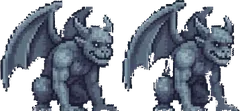
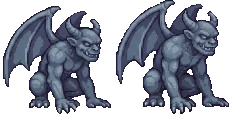
New animation frames (Gemini, 23 Nov) + remove smoothness stopgaps
- Mage: new idle + blink (blink every 3-4 s, breathing bob kept), new 4-frame walk with the staff
- Ranger: new 4-frame walk with the bow in every frame
- Gargoyle: new idle breathing pair; new walk frame 4 (colour-matched), full 5-frame loop
- Portrait Mimic: new 4-frame walk, driven by distance walked
- Pip: idle + wave every 4-6 s, and when the player walks up
- Bog Frog: new airborne frame 3 (sit, crouch, airborne)
- Lantern Moth: new wings-down frame 3, flap loop 1-2-3-2
- removed stopgaps: mage/ranger/gargoyle/mimic frame skipping, mimic
  waddle, frog stretch, gargoyle and Pip bob
- weapon points for the new mage and ranger frames
- frames keyed from magenta, pink fringe cleaned, downscaled by median
  per pixel (no blending), scaled and foot-lined to the existing sprites

Claude-Session: https://claude.ai/code/session_01PSVUwje5bNDsz9LdeuYuHG

diff --git a/js/game.js b/js/game.js
@@ -110,10 +110,14 @@ let LOADING=0;function needMap(i,fn){const gs=mapGroups(i);if(gs.every(gReady)){
  const wp=paused;paused=true;loadWithBar(gs,'Loading '+MAPS[i].name+'…').then(()=>{LOADING=0;paused=wp;fn();prefetchFrom(i)})}
 function whiteOf(k){if(WIMG[k])return WIMG[k];const im=IMG[k],c=document.createElement('canvas');c.width=im.width;c.height=im.height;const g=c.getContext('2d');g.drawImage(im,0,0);g.globalCompositeOperation='source-in';g.fillStyle='#fff';g.fillRect(0,0,c.width,c.height);return WIMG[k]=c}
 /* animation smoothness: per-key frame sequences, code breathing, squash/stretch hook (XF) */
-const SEQ={knight_walk:{f:[1,2,3,4]},warden_walk:{f:[1,2,3,4]},ranger_walk:{f:[1,2]},mage_walk:{f:[1,2]},archer_walk:{f:[0,1]},boss_walk:{f:[0,1,2,4]},mimic_walk:{f:[0]},pet_moth:{f:[0,1]},
- shop:{f:[0],bob:1.5},npc_pets:{f:[0],bob:1.5},ranger_idle:{f:[0],bob:1.5},mage_idle:{f:[0],bob:1.5},boss_idle:{f:[0],bob:2},pet_grimoire:{f:[0],bob:3,per:2.2}};
+const SEQ={knight_walk:{f:[1,2,3,4]},warden_walk:{f:[1,2,3,4]},archer_walk:{f:[0,1]},pet_moth:{f:[0,1,2,1]},
+ shop:{f:[0],bob:1.5},ranger_idle:{f:[0],bob:1.5},pet_grimoire:{f:[0],bob:3,per:2.2},
+ /* ev: an extra frame shown now and then: every lo..hi seconds for dur seconds (mage blink, Pip's wave) */
+ mage_idle:{f:[0],bob:1.5,ev:{fr:1,lo:3,hi:4,dur:.16,seed:1}},npc_pets:{f:[0],ev:{fr:1,lo:4,hi:6,dur:1.3,seed:2,near:1}}};
+let PIPW=-9,PIPN=false;
+function sqEv(e){if(e.near&&T-PIPW<e.dur)return true;const P0=(e.lo+e.hi)/2,c=Math.floor(T/P0),r=Math.sin(c*12.9898+e.seed*78.233)*43758.5453,j=(r-Math.floor(r))*(e.hi-e.lo),u=T-c*P0;return u>=j&&u<j+e.dur}
 let XF=null,S0IN=0;const ATKD=.37;
-function sqI(k,i,n){const q=SEQ[k.split(/[#@]/)[0]];if(q){const L=q.f.length;return Math.min(n-1,q.f[((Math.floor(i)%L)+L)%L])}return ((Math.floor(i)%n)+n)%n}
+function sqI(k,i,n){const q=SEQ[k.split(/[#@]/)[0]];if(q){if(q.ev&&n>q.ev.fr&&sqEv(q.ev))return q.ev.fr;const L=q.f.length;return Math.min(n-1,q.f[((Math.floor(i)%L)+L)%L])}return ((Math.floor(i)%n)+n)%n}
 function sqB(k){const q=SEQ[k.split(/[#@]/)[0]];return q&&q.bob?Math.round(q.bob*(.5-.5*Math.cos(T*6.2832/(q.per||1.6)))):0}
 function fr(k,i,x,y,s,flip,white){const m=MAN[k],im=IMG[k];if(!im||!m.n)return false;s/=m.ds||1;i=sqI(k,i,m.n);ctx.save();ctx.translate(Math.round(x),Math.round(y)-sqB(k)+(XF&&XF.dy||0));if(flip)ctx.scale(-1,1);if(XF){if(XF.r)ctx.rotate(XF.r);if(XF.sx||XF.sy)ctx.scale(XF.sx||1,XF.sy||1)}
  ctx.drawImage(white?whiteOf(k):im,i*m.fw,0,m.fw,m.fh,-m.ax*s,-m.ay*s,m.fw*s,m.fh*s);ctx.restore();return true}
@@ -583,7 +587,7 @@ $('bEquip').onclick=()=>{if(state==='play'&&!DQ)openEquip()};$('bEq2').onclick=(
 /* ---------- weapon upgrade glow (pixelfx: enhance-sword / -bow / -staff, drawn live) ----------
    WPTS: hand-marked weapon points per outfit x animation x frame, in the strip's frame pixels.
    sword/bow [ax,ay, mx,my, bx,by, halfWidth] (guard, blade middle, tip | top tip, grip, bottom tip); staff [gripX,gripY, headX,headY]; null = no weapon drawn. */
-const WPTS={"blade_idle":[[70,82,83,60,97,34,2],[69,83,83,61,98,36,2]],"blade_walk":[[22,101,55,117,88,125,2],null,null,null,null],"blade_jump":[[124,66,153,57,183,47,2]],"blade_attack":[[104,84,128,72,152,58,2],[133,61,160,50,188,37,2],null],"blade_hurt":[null],"fresh_idle":[[68,78,87,59,106,41,2.5],[68,79,87,60,106,42,2.5]],"fresh_walk":[[22,95,50,104,78,113,2.5],null,null,null,null],"fresh_jump":[[103,50,124,32,145,14,2.5]],"fresh_attack":[[103,82,128,68,152,55,2.5],[124,60,152,46,180,32,2.5],null],"fresh_hurt":[null],"knight_idle":[[80,82,101,59,122,37,3],[80,82,101,60,122,38,3]],"knight_walk":[[28,104,60,116,92,128,3],null,null,null,null],"knight_jump":[[110,62,138,50,166,38,3]],"knight_attack":[[108,82,134,67,160,52,3],[142,60,166,46,190,32,3],null],"knight_hurt":[null],"warden_idle":[[102,104,137,123,171,142,4],[102,104,137,123,171,142,4]],"warden_walk":[[116,96,150,117,186,138,4],[105,100,140,118,175,135,4],[108,102,146,120,185,139,4],[103,103,145,120,186,137,4],[102,100,145,118,187,135,4]],"warden_jump":[[76,36,40,19,4,3,4]],"warden_attack":[[165,34,124,18,83,3,4],[133,62,94,38,54,12,4],[176,138,222,155,268,172,4]],"warden_hurt":[[92,40,48,32,4,28,4]],"archer_idle":[[96,34,84,70,60,90,1.5],[96,35,84,70,60,90,1.5]],"archer_walk":[[98,34,87,70,62,90,1.5],[106,33,88,70,63,89,1.5],[99,34,87,72,63,89,1.5],[110,33,96,72,73,90,1.5]],"archer_jump":[[105,33,90,72,66,92,1.5]],"archer_attack":[[80,7,107,74,80,122,1.5],[80,7,104,70,79,120,1.5],[79,4,107,74,90,124,1.5]],"archer_hurt":[[98,37,80,82,58,99,1.5]],"ranger_idle":[[111,38,102,68,80,98,1.5],[94,54,88,82,76,108,1.5]],"ranger_walk":[[115,43,104,70,82,103,1.5],null,null],"ranger_jump":[[124,33,110,74,80,108,1.5]],"ranger_attack":[[83,4,108,62,85,116,1.5],null,null],"ranger_hurt":[[62,6,76,44,70,85,1.5]],"laureate_idle":[[127,20,108,58,97,92,1.5],[127,20,108,58,97,92,1.5]],"laureate_walk":[null,null,null,null,null],"laureate_jump":[null],"laureate_attack":[[146,10,172,70,150,138,1.5],[150,10,181,80,153,158,1.5],[154,26,181,88,153,175,1.5]],"laureate_hurt":[[124,7,154,87,126,162,1.5]],"mage_idle":[[92,90,104,52],[98,90,107,50]],"mage_walk":[[99,87,117,44],null,null],"mage_jump":[[87,72,105,31]],"mage_attack":[null,null,null],"mage_hurt":[[88,38,72,6]],"prof_idle":[[88,104,98,70],[90,105,100,70]],"prof_walk":[[100,72,110,48],[99,72,109,48],[100,73,110,49],[101,71,111,47],[101,71,111,47]],"prof_jump":[[104,63,123,39]],"prof_attack":[[123,77,141,45],[108,86,146,83],[126,88,157,87]],"prof_hurt":[[97,66,101,39]],"scholar_idle":[[97,92,109,52],[94,92,105,52]],"scholar_walk":[[116,95,127,56],[113,95,128,59],[117,95,129,56],[114,95,127,55]],"scholar_jump":[[123,73,136,50]],"scholar_attack":[[117,67,135,36],[115,83,163,79],[120,81,157,79]],"scholar_hurt":[[97,50,80,14]]};
+const WPTS={"blade_idle":[[70,82,83,60,97,34,2],[69,83,83,61,98,36,2]],"blade_walk":[[22,101,55,117,88,125,2],null,null,null,null],"blade_jump":[[124,66,153,57,183,47,2]],"blade_attack":[[104,84,128,72,152,58,2],[133,61,160,50,188,37,2],null],"blade_hurt":[null],"fresh_idle":[[68,78,87,59,106,41,2.5],[68,79,87,60,106,42,2.5]],"fresh_walk":[[22,95,50,104,78,113,2.5],null,null,null,null],"fresh_jump":[[103,50,124,32,145,14,2.5]],"fresh_attack":[[103,82,128,68,152,55,2.5],[124,60,152,46,180,32,2.5],null],"fresh_hurt":[null],"knight_idle":[[80,82,101,59,122,37,3],[80,82,101,60,122,38,3]],"knight_walk":[[28,104,60,116,92,128,3],null,null,null,null],"knight_jump":[[110,62,138,50,166,38,3]],"knight_attack":[[108,82,134,67,160,52,3],[142,60,166,46,190,32,3],null],"knight_hurt":[null],"warden_idle":[[102,104,137,123,171,142,4],[102,104,137,123,171,142,4]],"warden_walk":[[116,96,150,117,186,138,4],[105,100,140,118,175,135,4],[108,102,146,120,185,139,4],[103,103,145,120,186,137,4],[102,100,145,118,187,135,4]],"warden_jump":[[76,36,40,19,4,3,4]],"warden_attack":[[165,34,124,18,83,3,4],[133,62,94,38,54,12,4],[176,138,222,155,268,172,4]],"warden_hurt":[[92,40,48,32,4,28,4]],"archer_idle":[[96,34,84,70,60,90,1.5],[96,35,84,70,60,90,1.5]],"archer_walk":[[98,34,87,70,62,90,1.5],[106,33,88,70,63,89,1.5],[99,34,87,72,63,89,1.5],[110,33,96,72,73,90,1.5]],"archer_jump":[[105,33,90,72,66,92,1.5]],"archer_attack":[[80,7,107,74,80,122,1.5],[80,7,104,70,79,120,1.5],[79,4,107,74,90,124,1.5]],"archer_hurt":[[98,37,80,82,58,99,1.5]],"ranger_idle":[[111,38,102,68,80,98,1.5],[94,54,88,82,76,108,1.5]],"ranger_walk":[[115,33,106,62,83,85,1.5],[117,33,107,60,82,83,1.5],[117,42,107,67,82,88,1.5],[118,35,108,63,83,86,1.5]],"ranger_jump":[[124,33,110,74,80,108,1.5]],"ranger_attack":[[83,4,108,62,85,116,1.5],null,null],"ranger_hurt":[[62,6,76,44,70,85,1.5]],"laureate_idle":[[127,20,108,58,97,92,1.5],[127,20,108,58,97,92,1.5]],"laureate_walk":[null,null,null,null,null],"laureate_jump":[null],"laureate_attack":[[146,10,172,70,150,138,1.5],[150,10,181,80,153,158,1.5],[154,26,181,88,153,175,1.5]],"laureate_hurt":[[124,7,154,87,126,162,1.5]],"mage_idle":[[91,89,107,52],[90,91,108,54]],"mage_walk":[[87,91,104,50],[85,89,98,52],[85,89,98,50],[85,89,99,50]],"mage_jump":[[87,72,105,31]],"mage_attack":[null,null,null],"mage_hurt":[[88,38,72,6]],"prof_idle":[[88,104,98,70],[90,105,100,70]],"prof_walk":[[100,72,110,48],[99,72,109,48],[100,73,110,49],[101,71,111,47],[101,71,111,47]],"prof_jump":[[104,63,123,39]],"prof_attack":[[123,77,141,45],[108,86,146,83],[126,88,157,87]],"prof_hurt":[[97,66,101,39]],"scholar_idle":[[97,92,109,52],[94,92,105,52]],"scholar_walk":[[116,95,127,56],[113,95,128,59],[117,95,129,56],[114,95,127,55]],"scholar_jump":[[123,73,136,50]],"scholar_attack":[[117,67,135,36],[115,83,163,79],[120,81,157,79]],"scholar_hurt":[[97,50,80,14]]};
 const WKIND={blade:'sword',fresh:'sword',knight:'sword',warden:'sword',archer:'bow',ranger:'bow',laureate:'bow',mage:'staff',prof:'staff',scholar:'staff'};
 const wLv=up=>up>=7?3:up>=4?2:up>=1?1:0;
 function tierRamp(t){const c=TIERC[t]||TIERC[1],v=parseInt(c.slice(1),16),r=v>>16&255,g=v>>8&255,b=v&255,h=(x,y,z)=>'#'+[x,y,z].map(n=>Math.round(Math.max(0,Math.min(255,n))).toString(16).padStart(2,'0')).join(''),
@@ -1038,7 +1042,7 @@ function drawObjects(){if(!artReady)return;ctx.textAlign='center';ctx.font='600 
  const lab=(t,x,y,hi)=>{if(x<-60||x>W+60)return;ctx.fillStyle=hi?'#f2c14e':'#1b1633cc';const w=ctx.measureText(t).width+14;x=clamp(x,w/2+4,W-w/2-4);ctx.fillRect(x-w/2,y-16,w,22);ctx.fillStyle=hi?'#1b1633':'#f6ecd2';ctx.fillText(t,x,y)};
  for(const o of MAPS[MAP].obj){const sx=o.x-cam;if(sx<-160||sx>W+160)continue;const gate=o.k==='warp'||o.k==='exit';
   if(o.k==='frame'){if(RA('vframe')){fr('vframe',0,sx,FLOOR-195,.8);continue}ctx.save();ctx.fillStyle='#1a1030';ctx.fillRect(sx-44,FLOOR-250,88,110);ctx.strokeStyle='#c9a060';ctx.lineWidth=6;ctx.strokeRect(sx-44,FLOOR-250,88,110);ctx.fillStyle='#8a4ad633';ctx.fillRect(sx-38,FLOOR-244,76,98);ctx.restore();continue}
-  if(o.stair&&RA('stair_open'))fr(o.key&&!(P.lv>=(o.lv||0)&&P.mkey)?'stair_locked':'stair_open',0,sx,FLOOR+4,.66);else if(gate||o.k==='texit')drawWarp(sx);else if(o.art){if(o.ghost){ctx.save();ctx.globalAlpha=.72+.1*Math.sin(T*2)}fr(o.art,o.nf?o.f0+Math.floor(T*o.fps)%o.nf:Math.floor(T*(o.fps||0)),sx,FLOOR+(o.dy||2)-(o.ghost?12+6*Math.sin(T*1.6):0),o.s);if(o.ghost)ctx.restore()}
+  if(o.stair&&RA('stair_open'))fr(o.key&&!(P.lv>=(o.lv||0)&&P.mkey)?'stair_locked':'stair_open',0,sx,FLOOR+4,.66);else if(gate||o.k==='texit')drawWarp(sx);else if(o.art){if(o.k==='pets'){const nr=Math.abs(P.x-o.x)<170;if(nr&&!PIPN)PIPW=T;PIPN=nr}if(o.ghost){ctx.save();ctx.globalAlpha=.72+.1*Math.sin(T*2)}fr(o.art,o.nf?o.f0+Math.floor(T*o.fps)%o.nf:Math.floor(T*(o.fps||0)),sx,FLOOR+(o.dy||2)-(o.ghost?12+6*Math.sin(T*1.6):0),o.s);if(o.ghost)ctx.restore()}
   const ly=FLOOR+(o.ly||(gate||o.k==='texit'?-200:-104));if(o.label)lab(o.label,sx,ly);if(nearObj===o)lab(TOUCH?'Tap Talk':(gate?'Press F to travel':'Press F to talk'),sx,ly-28,1)}}
 function drawPlatOld(){for(const p of PLAT){const x0=Math.max(p.x,cam-10),x1=Math.min(p.x+p.w,cam+W+10);if(x1<=x0)continue;
   for(let zi=0;zi<ZONES.length;zi++){const z=ZONES[zi];const a=Math.max(x0,z.x0),b=Math.min(x1,z.x1);if(b<=a)continue;
@@ -1046,9 +1050,9 @@ function drawPlatOld(){for(const p of PLAT){const x0=Math.max(p.x,cam-10),x1=Mat
 function bar(x,y,w,h,v,col,bg){ctx.fillStyle=bg||'#1b1633';ctx.fillRect(x,y,w,h);ctx.fillStyle=col;ctx.fillRect(x+2,y+2,(w-4)*clamp(v,0,1),h-4)}
 const MSC={slime:.42,worm:.48,bat:.42,golem:.52,boss:.8};
 function mobKey(m){const sk=MT[m.type].skin||m.type;switch(m.ai){
-  case 'slime':{if(m.type==='frog')return [sk,!m.onG||m.tm<.25?1:0];if(m.type!=='slime')return [sk,!m.onG?2:m.tm<.25?1:0];const k=m.v?'slime_p':'slime_g';return [k,!m.onG?(m.v?1:2):m.tm<.25?(m.v?2:1):0]}
+  case 'slime':{if(m.type==='frog')return [sk,!m.onG?2:m.tm<.25?1:0];if(m.type!=='slime')return [sk,!m.onG?2:m.tm<.25?1:0];const k=m.v?'slime_p':'slime_g';return [k,!m.onG?(m.v?1:2):m.tm<.25?(m.v?2:1):0]}
  case 'worm':return ['worm',m.anim*5];case 'bat':return m.dive>0&&IMG[sk+'_dive']?[sk+'_dive',0]:[sk,m.anim*9];
-  case 'mimic':return [sk+(m.st==='disguise'&&RA(sk+'_disg')?'_disg':m.st==='lunge'?'_slam':m.st==='reveal'?'_wind':'_walk'),m.st==='walk'||m.st==='idle'?m.anim*4:0];
+  case 'mimic':return [sk+(m.st==='disguise'&&RA(sk+'_disg')?'_disg':m.st==='lunge'?'_slam':m.st==='reveal'?'_wind':'_walk'),m.st==='walk'?m.wd/11:0];
   case 'mirror':{const c=m.sk;return m.atkA>0?[c+'_attack',(1-m.atkA/.3)*3]:Math.abs(m.vx)>1?[c+'_walk',m.wd/26]:[c+'_idle',m.anim*2.2]}
   case 'golem':return m.st==='wind'?[sk+'_wind',0]:m.slamT>0?[sk+'_slam',0]:[sk+'_walk',Math.abs(m.vx)>1?m.wd/12:0];
   default:return m.castT>0&&IMG[sk+'_cast']?[sk+'_cast',0]:m.hurtT>0?[sk+'_hurt',0]:m.st==='wind'||m.st==='prep'?[sk+'_wind',0]:m.st==='leap'&&!m.onG?[sk+'_leap',0]:m.slamT>0?[sk+'_slam',0]:Math.abs(m.vx)>1?[sk+'_walk',m.wd/12]:[sk+'_idle',m.anim*2]}}
@@ -1070,7 +1074,7 @@ function drawMob(m){
   ctx.fillStyle='#0003';ctx.beginPath();ctx.ellipse(sx,m.fly?FLOOR:sy,m.w/2,4,0,0,7);ctx.fill();
   const jx=m.st==='wind'||m.st==='prep'?Math.sin(T*60)*2:0,ek=m.elite?eliteKey(k,m.elite):k,es=(m.ai==='mirror'?.5:m.elite?sc*1.15:sc)*(m.mini?.62:1)*(m.kid?.75:1),ek2=m.ai==='mirror'?eliteKey(k,'shadow'):ek;
    if(!RA('mimic_disg')&&(m.st==='disguise'||m.st==='reveal')){ctx.save();ctx.fillStyle='#1a1030';ctx.fillRect(sx-40,sy-m.h-30,80,m.h+30);ctx.strokeStyle='#c9a060';ctx.lineWidth=6;ctx.strokeRect(sx-40,sy-m.h-30,80,m.h+30);ctx.restore()}
-   const ph=MT[m.type].phase&&!(m.dive>0)&&(m.dcd||9)>.6;if(ph)ctx.globalAlpha=.35;if(m.elite==='shiny'){ctx.save();ctx.globalAlpha=.35+.2*Math.sin(T*6);ctx.fillStyle='#ffe680';ctx.beginPath();ctx.ellipse(sx,sy-m.h/2,m.w*.9,m.h*.75,0,0,7);ctx.fill();ctx.restore();if(Math.random()<.15)fx.push({k:'p',x:m.x+rnd(-20,20),y:m.y-rnd(0,m.h),vx:0,vy:-40,life:.6,max:.6,c:'#fff6b0',s:3})}XF=m.type==='frog'&&!m.onG?{sx:.92,sy:1.1}:k==='mimic_walk'&&Math.abs(m.vx)>1?{r:Math.sin(m.wd/9)*.06,dy:-Math.round(Math.abs(Math.sin(m.wd/9))*2)}:null;fr(ek2,i,sx+jx,sy+(m.fly?0:2),es,fl);ctx.globalAlpha=1;if(m.st==='reveal'&&!RA('mimic_disg')){ctx.fillStyle='#ff3030';ctx.fillRect(sx-14,sy-m.h*.78,8,6);ctx.fillRect(sx+6,sy-m.h*.78,8,6)}if(m.flash>0){ctx.globalAlpha=.7;fr(k,i,sx+jx,sy+(m.fly?0:2),es,fl,1);ctx.globalAlpha=1}
+   const ph=MT[m.type].phase&&!(m.dive>0)&&(m.dcd||9)>.6;if(ph)ctx.globalAlpha=.35;if(m.elite==='shiny'){ctx.save();ctx.globalAlpha=.35+.2*Math.sin(T*6);ctx.fillStyle='#ffe680';ctx.beginPath();ctx.ellipse(sx,sy-m.h/2,m.w*.9,m.h*.75,0,0,7);ctx.fill();ctx.restore();if(Math.random()<.15)fx.push({k:'p',x:m.x+rnd(-20,20),y:m.y-rnd(0,m.h),vx:0,vy:-40,life:.6,max:.6,c:'#fff6b0',s:3})}XF=null;fr(ek2,i,sx+jx,sy+(m.fly?0:2),es,fl);ctx.globalAlpha=1;if(m.st==='reveal'&&!RA('mimic_disg')){ctx.fillStyle='#ff3030';ctx.fillRect(sx-14,sy-m.h*.78,8,6);ctx.fillRect(sx+6,sy-m.h*.78,8,6)}if(m.flash>0){ctx.globalAlpha=.7;fr(k,i,sx+jx,sy+(m.fly?0:2),es,fl,1);ctx.globalAlpha=1}
   XF=null;drawMobUi(m,sx,sy);return}
  const set=MS[m.type][m.v]||MS[m.type][0];let img=set[0];if(m.type==='bat')img=set[Math.floor(m.anim*8)%2];
  const sx=m.x-cam,sy=m.y;let bob=m.type==='slime'&&m.onG?Math.sin(m.anim*6)*1.5:0;

diff --git a/index.html b/index.html
@@ -196,7 +196,7 @@ img.ico,img.tico,#bagList img,#toast img{object-fit:contain;image-rendering:pixe
 <div id="ldr" aria-live="polite"><div class="lbox"><p id="ldrT">Loading…</p><div class="lbar"><div id="ldrB"></div></div></div></div>
 <script>
 /* Boot: read the art manifest, then start the game script. Art itself loads per region (see js/game.js). */
-(function(){const BUILD='c8d6c969b9',info=document.getElementById('saveInfo');
+(function(){const BUILD='00420a0399',info=document.getElementById('saveInfo');
  fetch('manifest.json?b='+BUILD,{cache:'no-cache'}).then(r=>{if(!r.ok)throw new Error(r.status);return r.json()}).then(m=>{
   const U={};for(const k in m)U[k]='art/'+(m[k].group||'core')+'/'+k+'.webp?v='+m[k].v;
   window.SB_MAN=m;window.SB_URL=U;const fail=()=>{info.textContent='Could not load the game. Check your connection and refresh.'},
